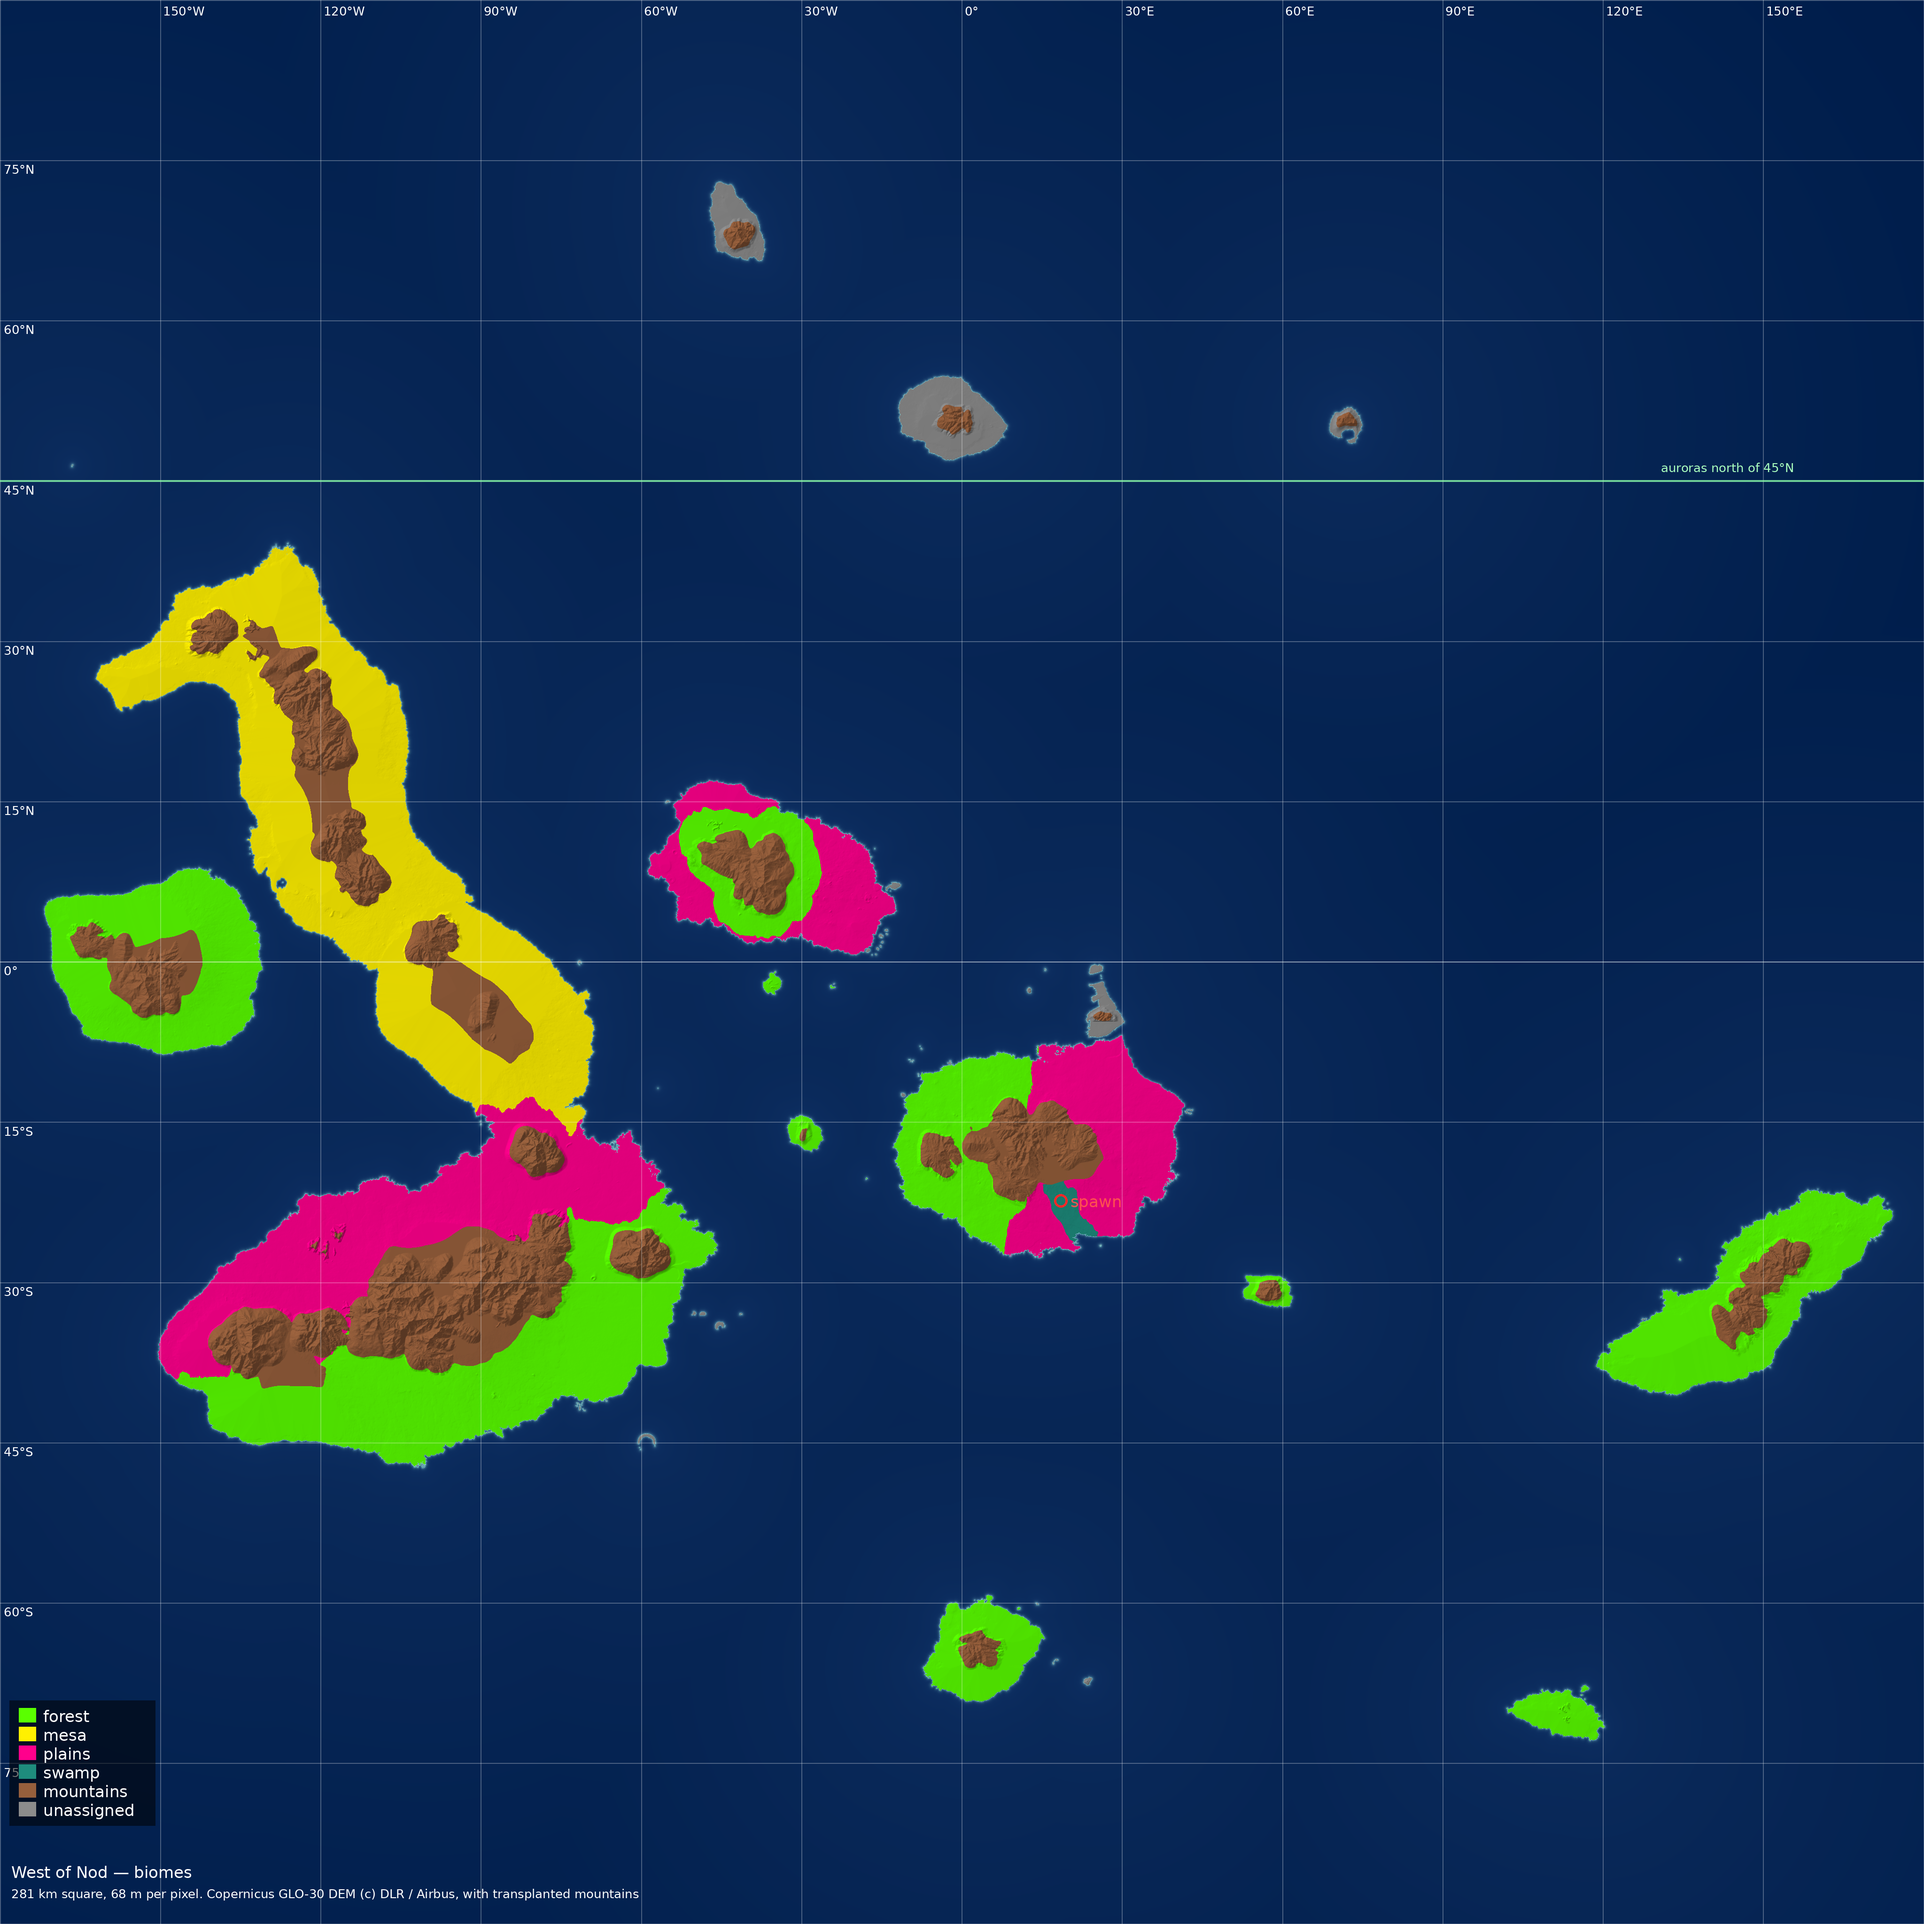
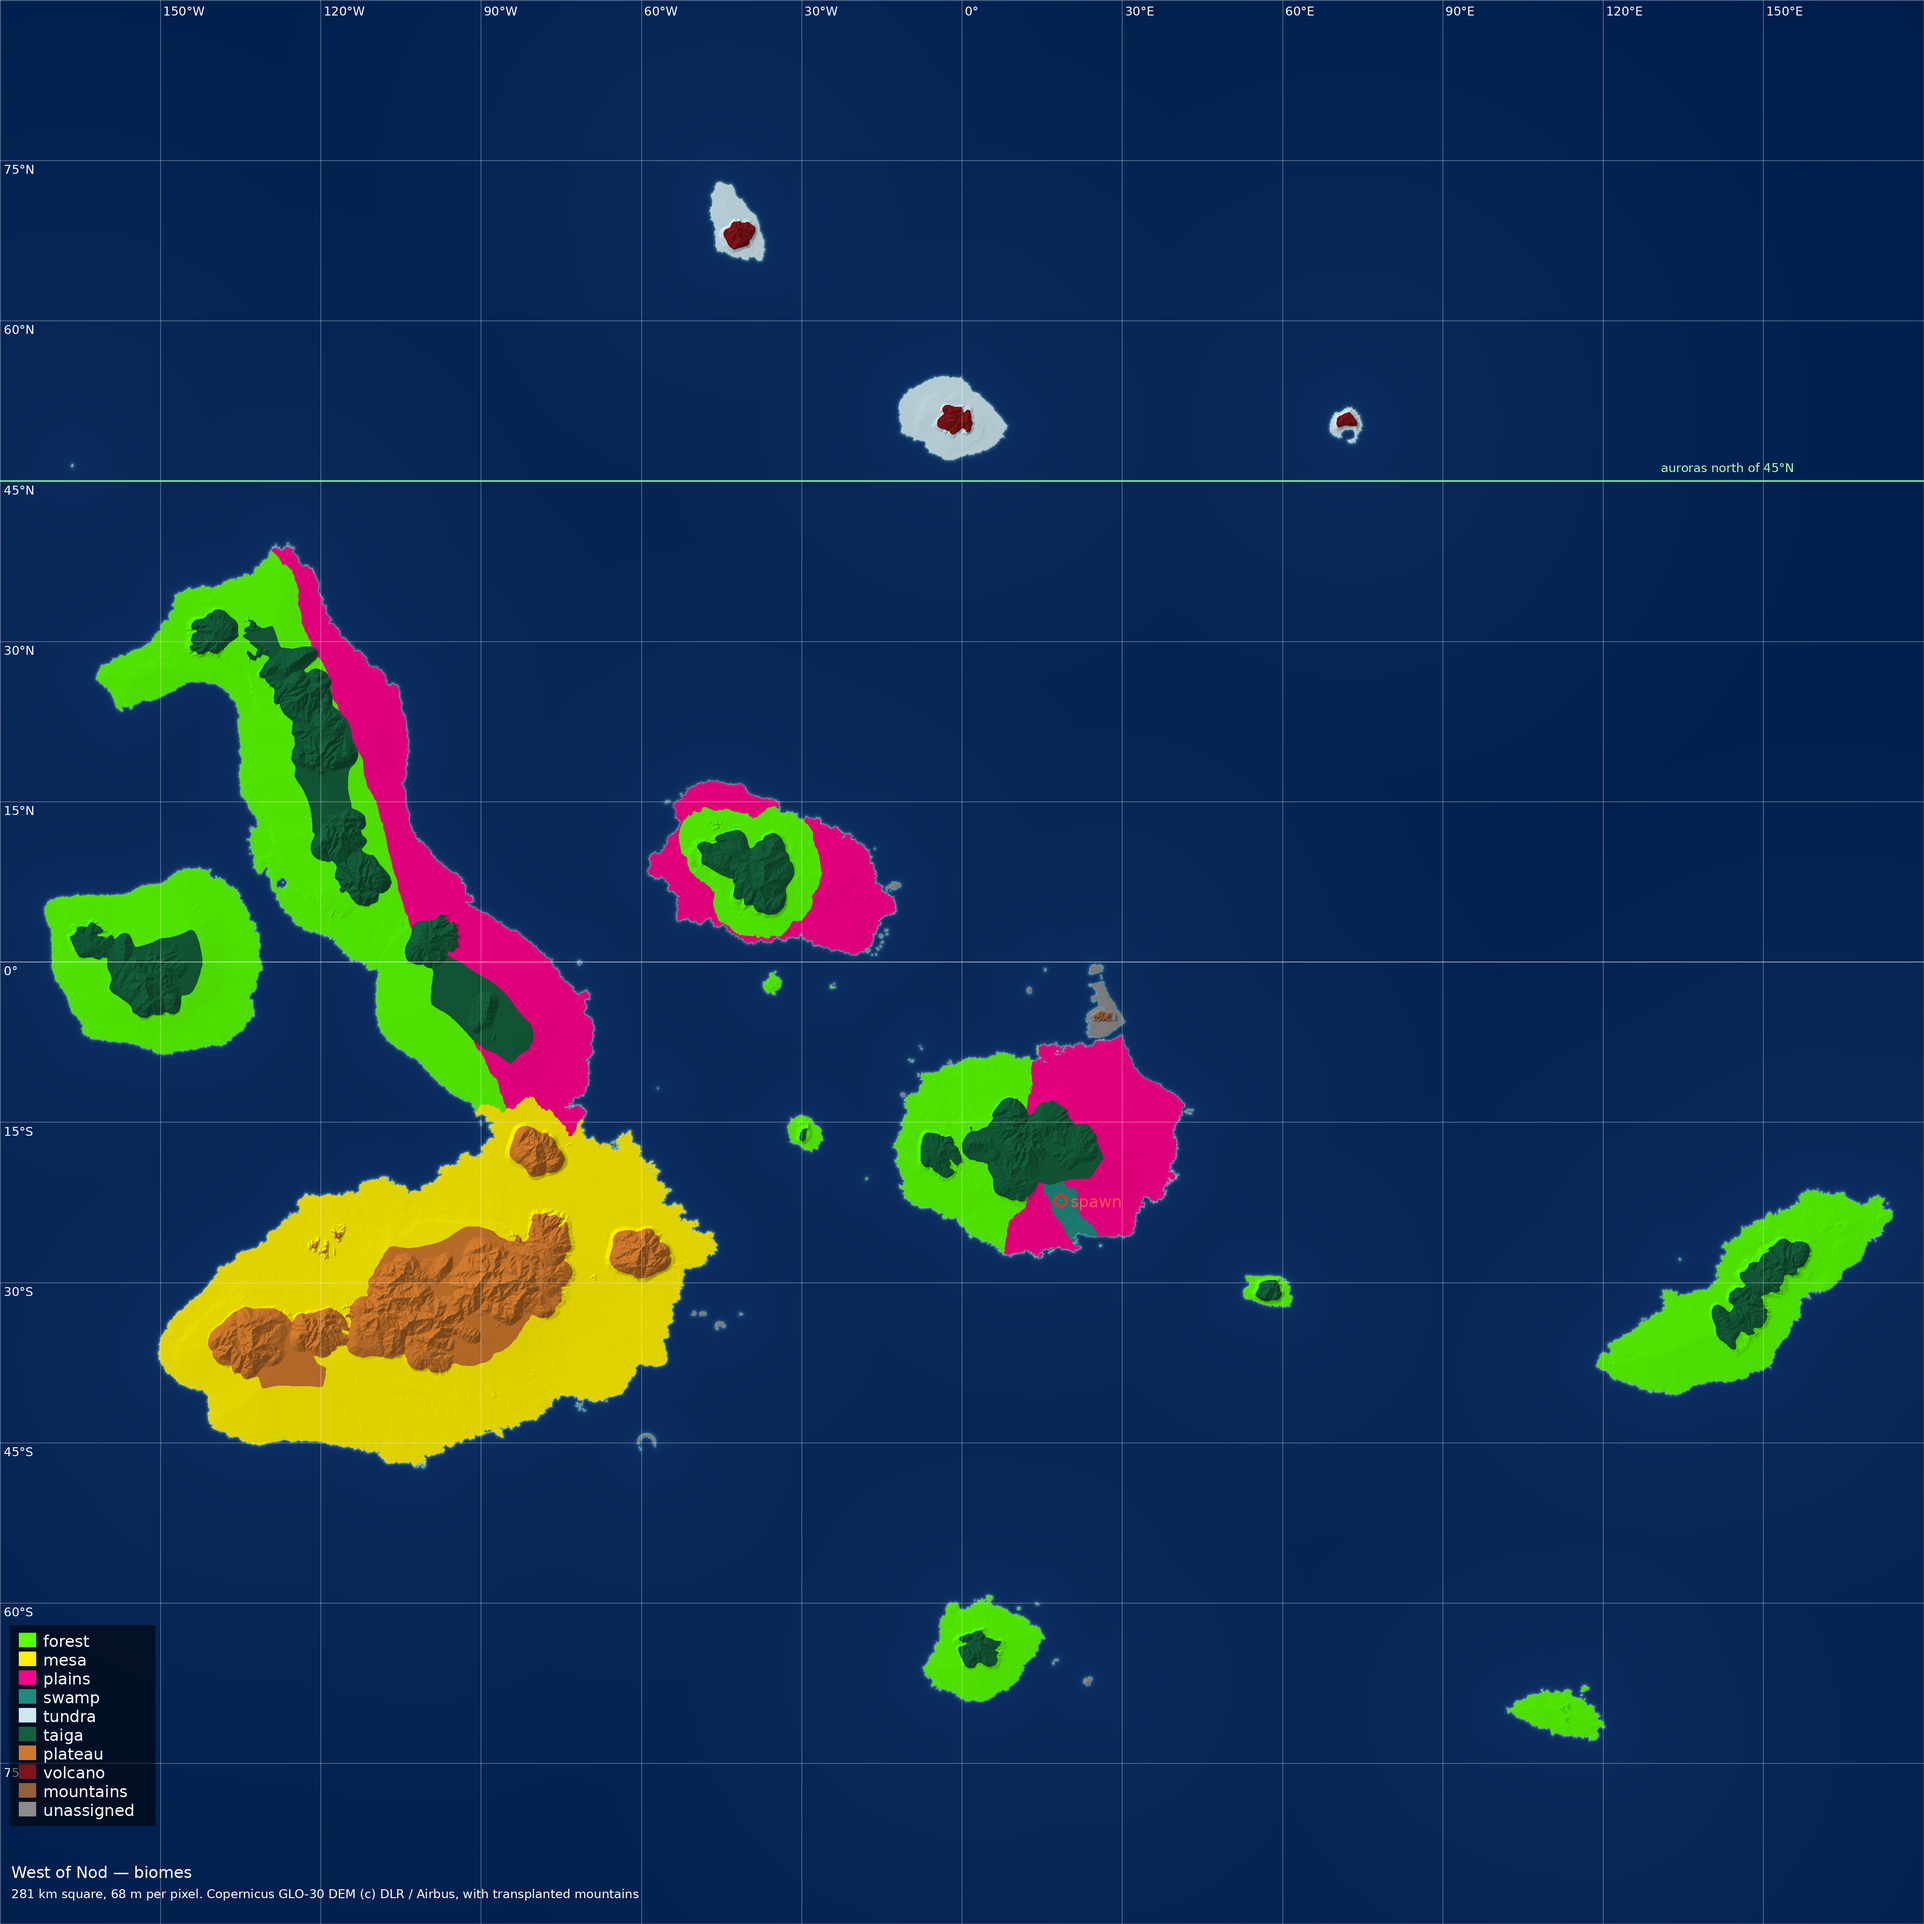
Biome map: tundra north of 45N; mountains as taiga, plateau or volcano by their surroundings; Isabela swapped, its arm split east-west

diff --git a/tools/map/biomes.py b/tools/map/biomes.py
@@ -7,9 +7,17 @@ Each island is matched by where its middle lies; within an island a few
 lines split it. Islands not listed (the three northern ones, Baltra and the
 Seymours, the islets) have no biome yet.
 """
-FOREST, MESA, PLAINS, SWAMP, MOUNTAINS = "forest", "mesa", "plains", "swamp", "mountains"
+FOREST, MESA, PLAINS, SWAMP, TUNDRA = "forest", "mesa", "plains", "swamp", "tundra"
+TAIGA, PLATEAU, VOLCANO, MOUNTAINS = "taiga", "plateau", "volcano", "mountains"
 COLOURS = {FOREST: (90, 255, 0), MESA: (255, 240, 0), PLAINS: (255, 0, 140), SWAMP: (30, 140, 125),
+           TUNDRA: (205, 230, 240), TAIGA: (20, 95, 60), PLATEAU: (205, 120, 45), VOLCANO: (130, 20, 25),
            MOUNTAINS: (150, 95, 60)}
+# Mountains take their biome from what surrounds them (the most common biome
+# in a ring round each range): plains, forest or swamp make taiga; mesa, a
+# plateau; tundra, a volcano. Ranges with nothing assigned round them stay
+# plain mountains.
+MOUNTAIN_BY_SURROUNDINGS = {PLAINS: TAIGA, FOREST: TAIGA, SWAMP: TAIGA, MESA: PLATEAU, TUNDRA: VOLCANO}
+RING_KM = 2.0
 # Mountains are their own biome, wherever the ground (smoothed over a few
 # hundred metres) stands this high, whatever the island's biome around them.
 MOUNTAIN_HEIGHT = 330.0
@@ -46,9 +54,10 @@ def fractal(lon, lat, salt=0.0):
 # (lon, lat, km from the nearest mountains) -> biome
 def _isabela(lon, lat, mountain_km):
     if lat + fractal(lon, lat, 1.0) > -14.0:
-        return MESA                                  # the long northern arm
-    coast = -40.0 + (lon + 150.0) * 0.178            # (along the southern lobe's north shore: plains above)
-    return PLAINS if lat + fractal(lon, lat, 2.0) > coast else FOREST
+        # the long northern arm: split along its spine, forest west, plains east
+        spine = -90.0 + (lat + 10.0) * (-35.0 / 43.0)
+        return PLAINS if lon + fractal(lon, lat, 2.0) > spine else FOREST
+    return MESA                                      # the southern lobe
 
 
 def _santiago(lon, lat, mountain_km):
@@ -84,6 +93,13 @@ MATCH_DEG = 12.0
 # spawn point down through it to the nearest coast.
 SWAMPS = [((17.33, -20.88), (21.16, -25.44), 2.6)]
 KM_PER_DEG = (281.0 / 360.0, 281.0 / 180.0)   # longitude, latitude
+
+
+TUNDRA_LAT = 45.0   # all land north of this (edge fractal) is tundra
+
+
+def tundra(lon, lat):
+    return lat + fractal(lon, lat, 7.0) > TUNDRA_LAT
 
 
 def swamp(lon, lat):

diff --git a/tools/map/render_map.py b/tools/map/render_map.py
@@ -48,12 +48,31 @@ def biome_layer(h):
             if d < best:
                 best, rule = d, r
         if rule is None:
-            continue
+            rule = lambda lo, la, km: None
         sub = out[sl]
         for yy, xx in zip(*np.nonzero(comp)):
             lo, la = lon[sl][yy, xx], lat[sl][yy, xx]
-            sub[yy, xx] = names.index(biomes.SWAMP if biomes.swamp(lo, la) else rule(lo, la, mountain_km[sl][yy, xx]))
-    out[high] = names.index(biomes.MOUNTAINS)
+            if biomes.tundra(lo, la):
+                b = biomes.TUNDRA
+            elif biomes.swamp(lo, la):
+                b = biomes.SWAMP
+            else:
+                b = rule(lo, la, mountain_km[sl][yy, xx])
+            if b is not None:
+                sub[yy, xx] = names.index(b)
+    # each range takes its biome from what surrounds it
+    ring_px = max(1, int(biomes.RING_KM / (281.0 / S)))
+    mlab, nm = ndimage.label(high)
+    for k, sl in enumerate(ndimage.find_objects(mlab)):
+        grow = tuple(slice(max(s_.start - ring_px, 0), s_.stop + ring_px) for s_ in sl)
+        comp = mlab[grow] == k + 1
+        ring = ndimage.binary_dilation(comp, iterations=ring_px) & ~comp & (h[grow] > 0.0)
+        around = out[grow][ring]
+        around = around[around >= 0]
+        kind = biomes.MOUNTAINS
+        if around.size:
+            kind = biomes.MOUNTAIN_BY_SURROUNDINGS.get(names[np.bincount(around).argmax()], biomes.MOUNTAINS)
+        out[grow][comp] = names.index(kind)
     return out
 
 
@@ -118,8 +137,8 @@ def main():
     dr.ellipse([px - 14, pz - 14, px + 14, pz + 14], outline=(255, 40, 40, 255), width=5)
     dr.text((px + 20, pz - 18), "spawn", font=f, fill=(255, 80, 80, 255))
     if mode_biomes:
-        y = S - 460
-        dr.rectangle([20, y - 16, 330, y + 250], fill=(0, 0, 0, 140))
+        y = S - 620
+        dr.rectangle([20, y - 16, 330, y + 410], fill=(0, 0, 0, 140))
         for i, (name, rgb) in enumerate(list(biomes.COLOURS.items()) + [("unassigned", (140, 140, 140))]):
             dr.rectangle([40, y + i * 40, 76, y + i * 40 + 30], fill=rgb + (255,))
             dr.text((92, y + i * 40 - 2), name, font=f, fill=(255, 255, 255, 240))
